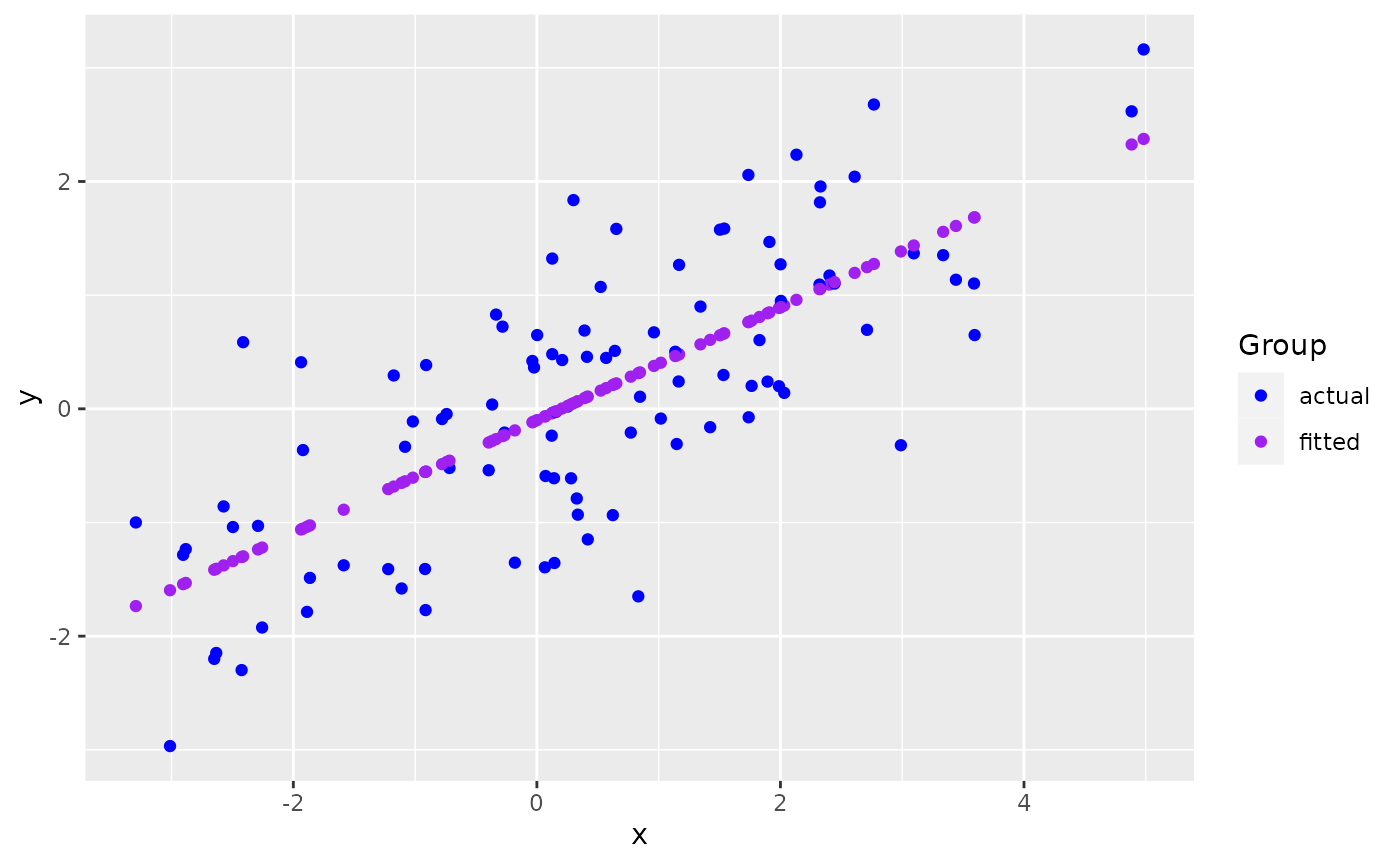
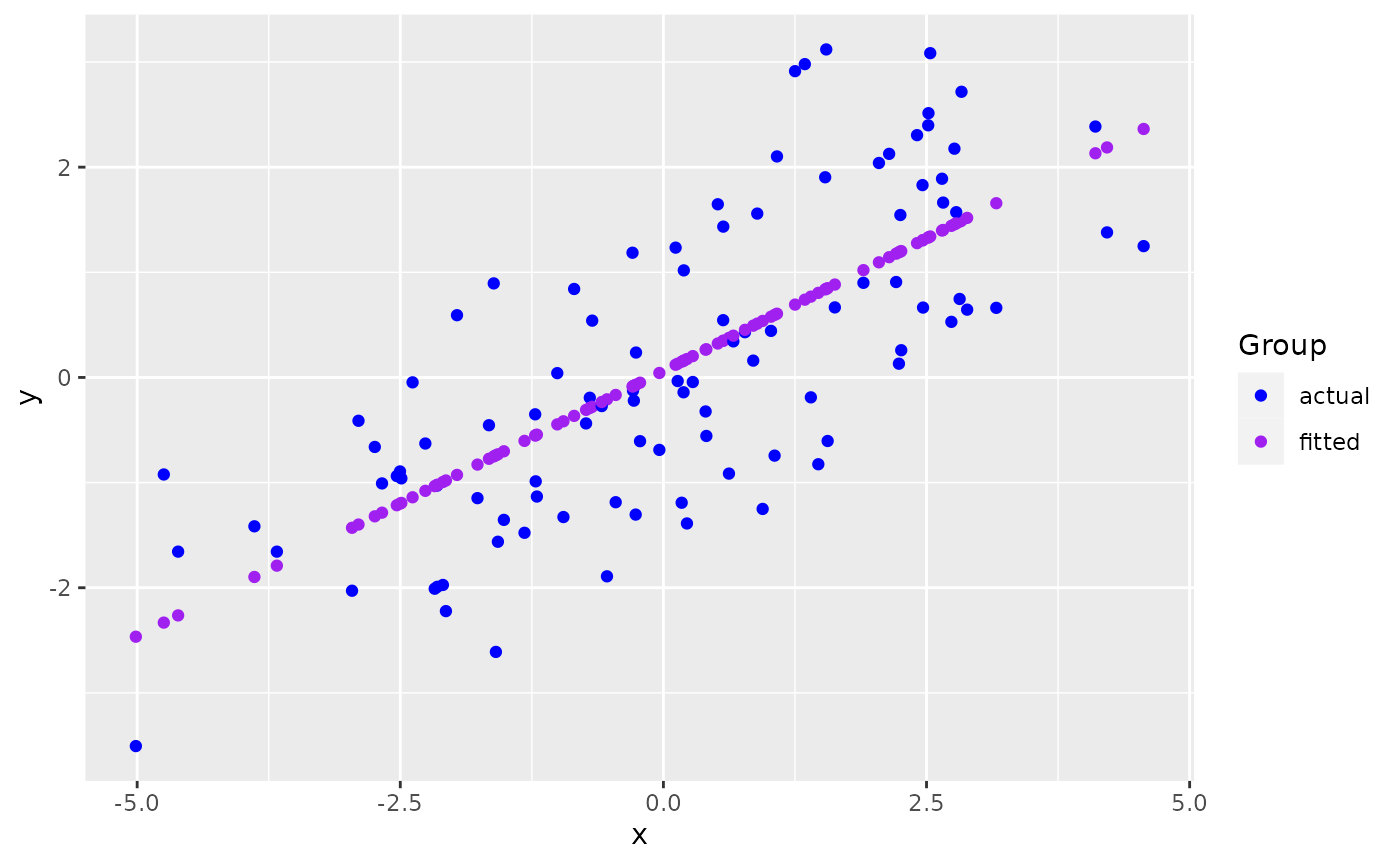
Built site for ggmatplot: 0.1.0.9000@a232220

diff --git a/articles/ggmatplot.html b/articles/ggmatplot.html
@@ -103,7 +103,7 @@
 <span class="va">x</span> <span class="op">&lt;-</span> <span class="fu"><a href="https://rdrr.io/r/base/c.html" class="external-link">c</a></span><span class="op">(</span><span class="fu"><a href="https://rdrr.io/r/stats/Normal.html" class="external-link">rnorm</a></span><span class="op">(</span><span class="fl">100</span>, sd <span class="op">=</span> <span class="fl">2</span><span class="op">)</span><span class="op">)</span>
 
 <span class="fu"><a href="https://rdrr.io/r/utils/head.html" class="external-link">head</a></span><span class="op">(</span><span class="va">x</span><span class="op">)</span>
-<span class="co">#&gt; [1] 1.01760685 1.16746962 1.14812478 0.06544551 0.12613335 0.33611123</span>
+<span class="co">#&gt; [1] -2.0663823  0.6227924 -0.5360156  0.5168812  2.6579705 -0.6992611</span>
 
 <span class="co"># matrix z</span>
 <span class="va">y</span> <span class="op">&lt;-</span> <span class="va">x</span> <span class="op">*</span> <span class="fl">0.5</span> <span class="op">+</span> <span class="fu"><a href="https://rdrr.io/r/stats/Normal.html" class="external-link">rnorm</a></span><span class="op">(</span><span class="fl">100</span>, sd <span class="op">=</span> <span class="fl">1</span><span class="op">)</span>
@@ -112,13 +112,13 @@
            fitted <span class="op">=</span> <span class="va">fit.y</span><span class="op">)</span>
 
 <span class="fu"><a href="https://rdrr.io/r/utils/head.html" class="external-link">head</a></span><span class="op">(</span><span class="va">z</span><span class="op">)</span>
-<span class="co">#&gt;        actual      fitted</span>
-<span class="co">#&gt; 1 -0.08572396  0.40546639</span>
-<span class="co">#&gt; 2  1.26657281  0.47989004</span>
-<span class="co">#&gt; 3 -0.30957219  0.47028315</span>
-<span class="co">#&gt; 4 -1.39452295 -0.06738834</span>
-<span class="co">#&gt; 5  1.32187748 -0.03725003</span>
-<span class="co">#&gt; 6 -0.93123880  0.06702750</span></code></pre></div>
+<span class="co">#&gt;       actual     fitted</span>
+<span class="co">#&gt; 1 -2.2222355 -0.9798713</span>
+<span class="co">#&gt; 2 -0.9142958  0.3762179</span>
+<span class="co">#&gt; 3 -1.8914777 -0.2081424</span>
+<span class="co">#&gt; 4  1.6471120  0.3228094</span>
+<span class="co">#&gt; 5  1.6630877  1.4025116</span>
+<span class="co">#&gt; 6 -0.1930342 -0.2904633</span></code></pre></div>
 <p><code>ggmatplot</code> plots vector <code>x</code> against each column of matrix <code>z</code> using the default <code>plot_type = "point"</code>. This will be represented on the resulting plot as two groups, identified using different shapes and colors.</p>
 <div class="sourceCode" id="cb2"><pre class="downlit sourceCode r">
 <code class="sourceCode R"><span class="kw"><a href="https://rdrr.io/r/base/library.html" class="external-link">library</a></span><span class="op">(</span><span class="va"><a href="https://github.com/xuan-liang/ggmatplot" class="external-link">ggmatplot</a></span><span class="op">)</span>
